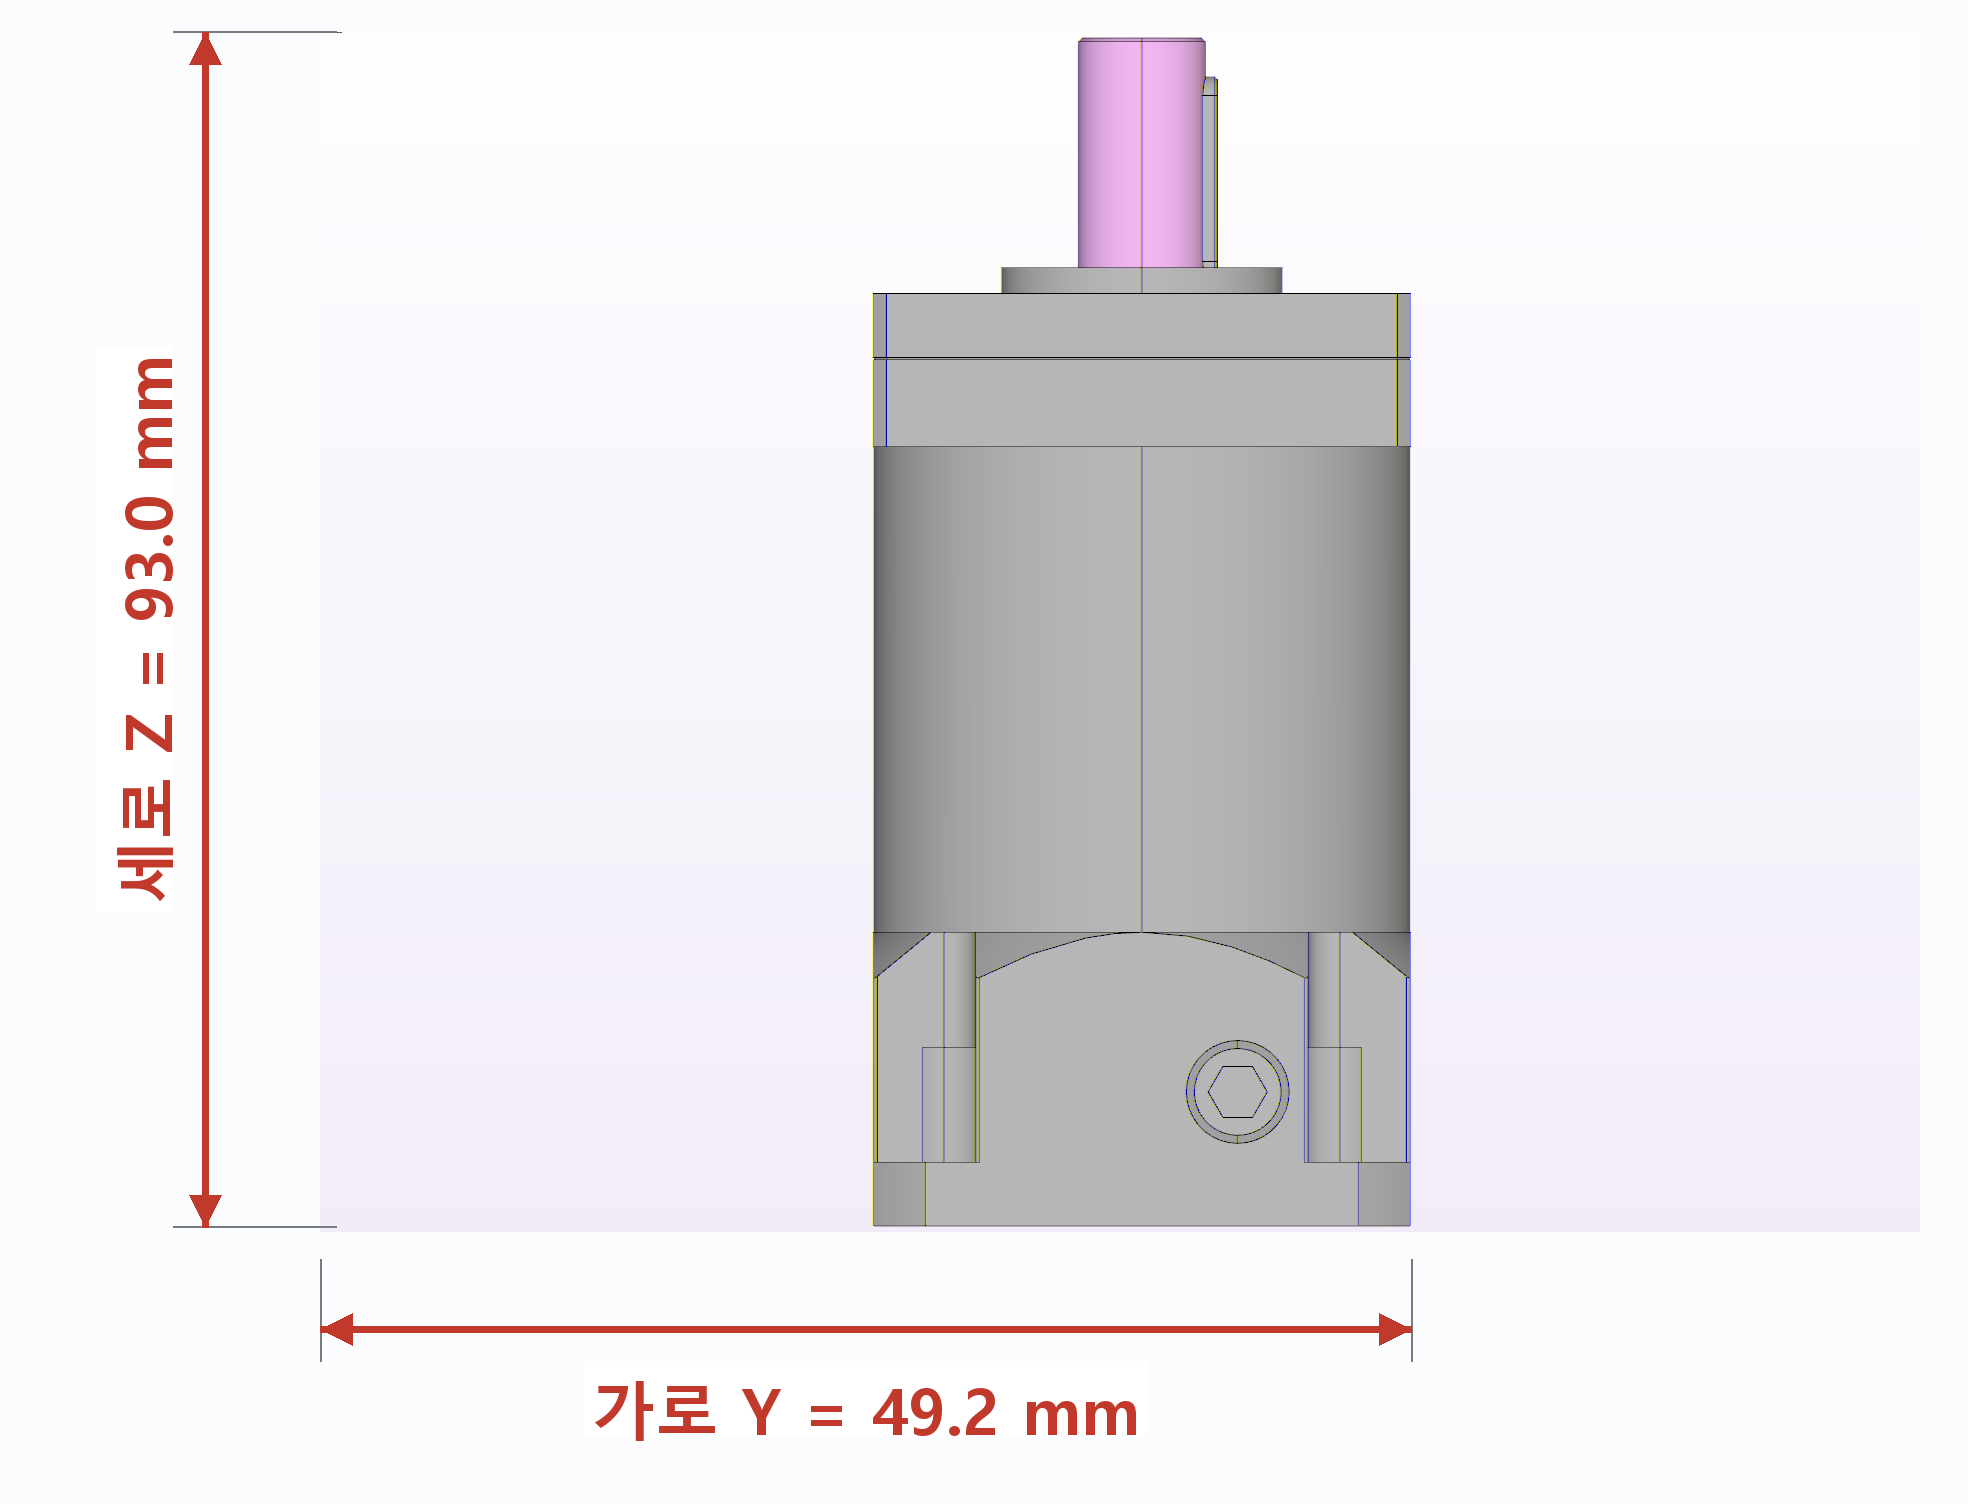
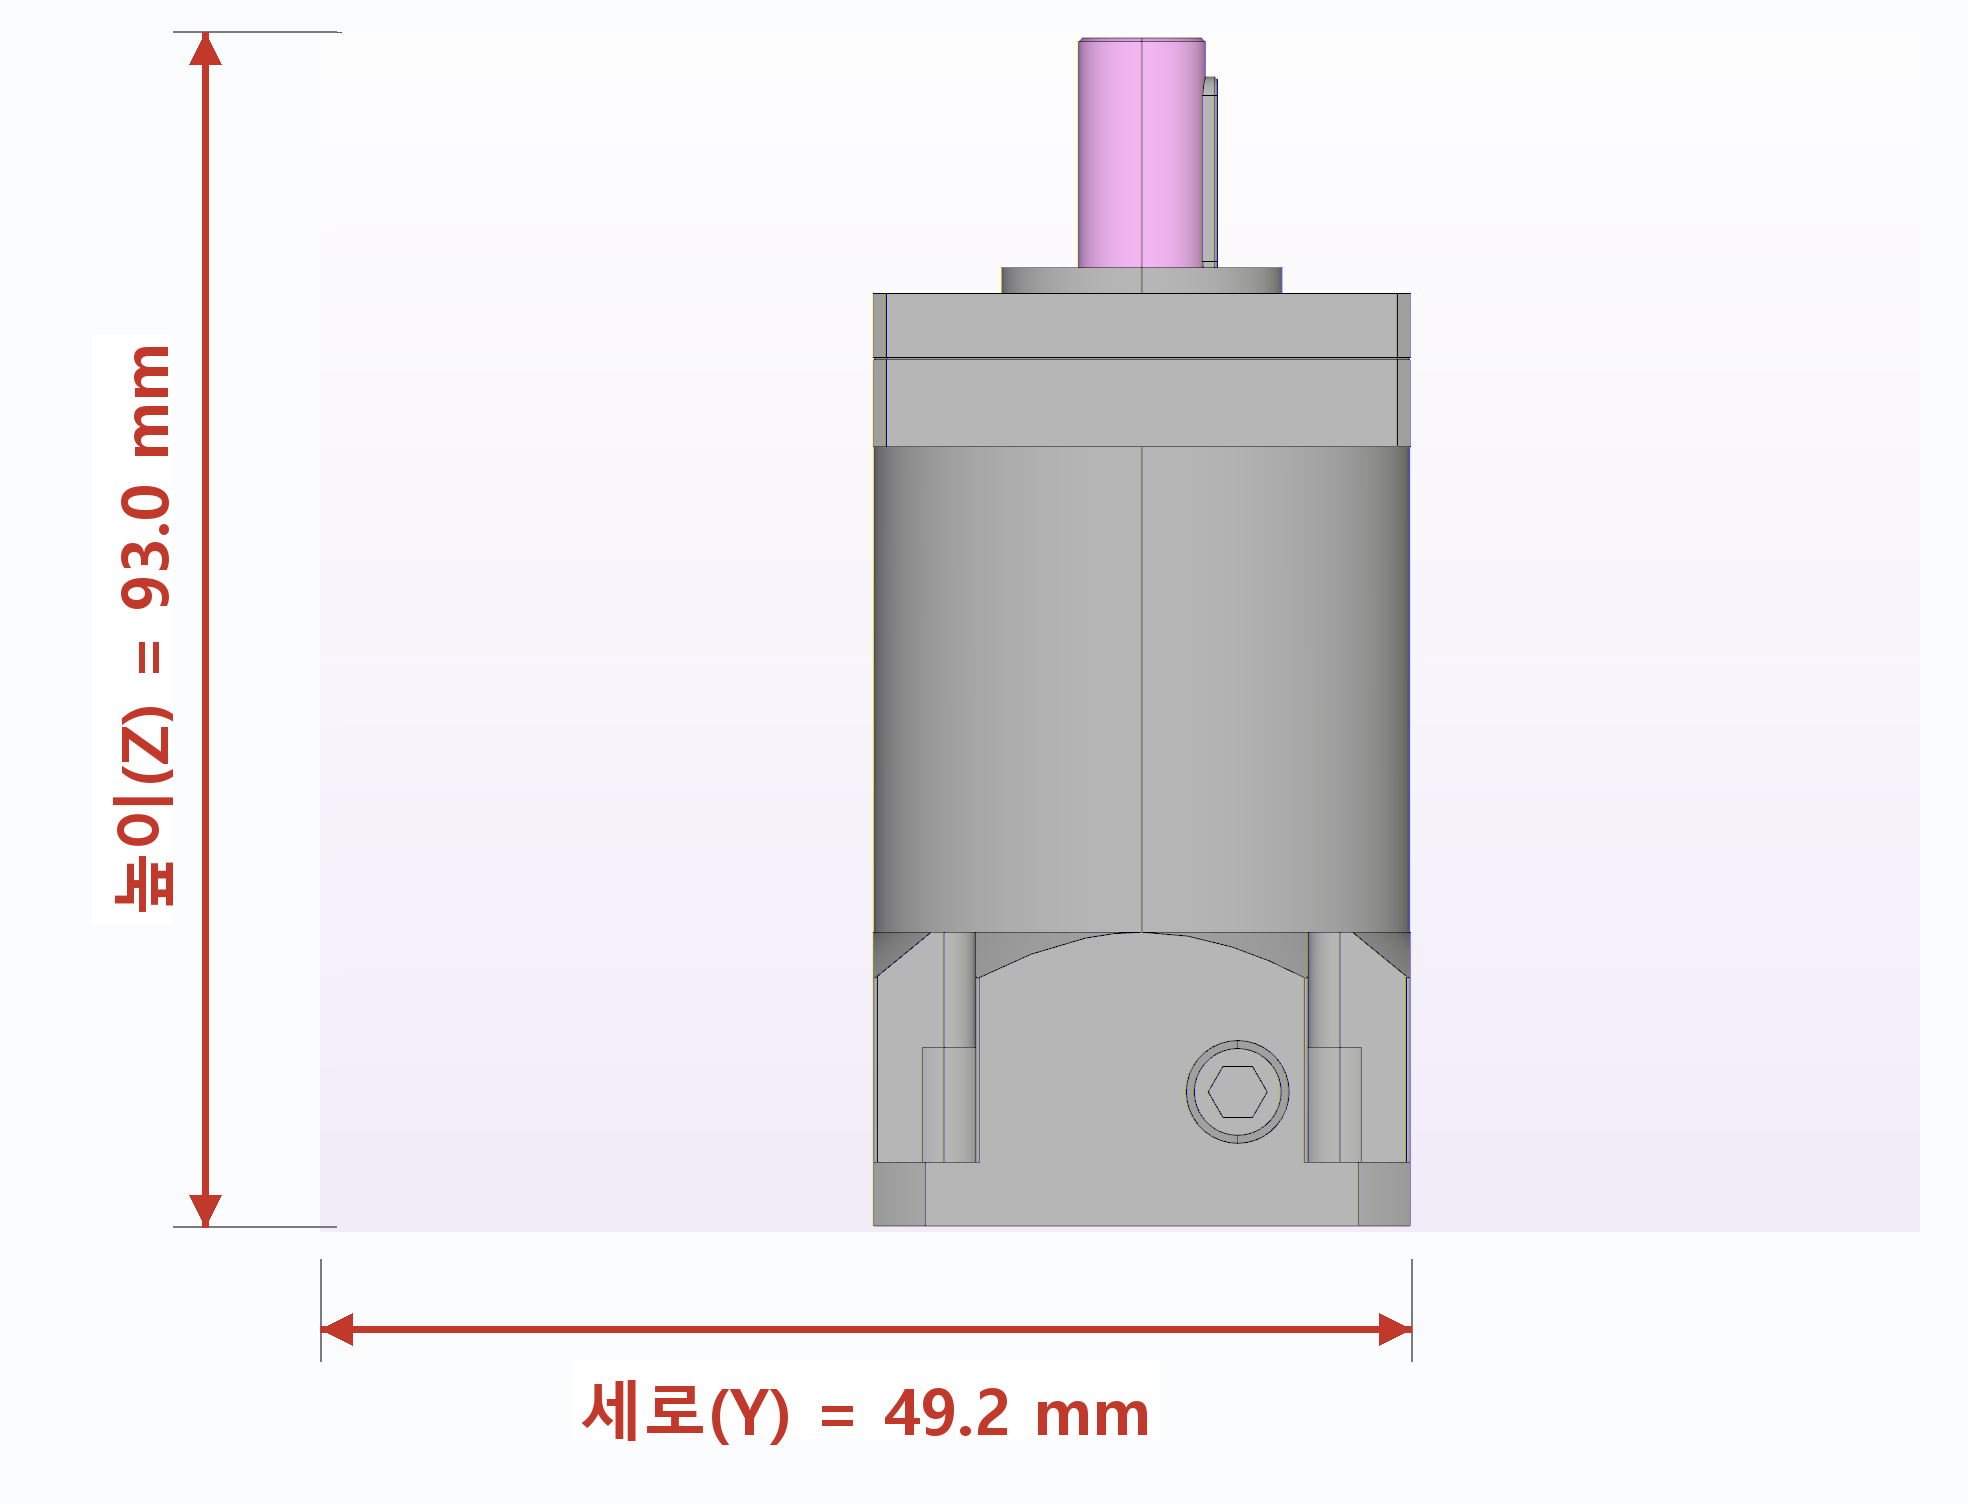
feature/step-report: refocus report on size + multi-angle photos
Per request, the default report is now visual/dimensional rather than
robot-dynamics oriented:
- Mass / inertia / URDF slides are OFF by default (add back with --with-mass).
  URDF is only computed/written when --with-mass is given.
- Dimensions stated as 가로(X) · 세로(Y) · 높이(Z); each orthographic view is
  annotated with its in-plane dims using these names (consistent everywhere).
- Standard 삼면도: front / TOP / side + iso. Top replaces the redundant back
  view and shows the footprint — fixes flat parts (a PCB only reads from above).
- New "여러 각도" gallery: 4 isometric corners (turntable). Title slide shows
  the part + size.

Slides: title / dimensions / dimensioned-drawing / multi-angle / diameters.
Planetary-gear example regenerated (7 renders); URDF file dropped from it.

Changed region(s): [[0.062, 0.2188, 0.093, 0.625], [0.4339, 0.9062, 0.5889, 0.9688], [0.279, 0.9062, 0.4029, 0.9688]]

diff --git a/scripts/argos_report.py b/scripts/argos_report.py
@@ -26,12 +26,23 @@ KO_FONT = "Malgun Gothic"  # Korean-capable font for PowerPoint rendering
 # in-plane dims = (horizontal axis, vertical axis) of the bounding box that the
 # orthographic view measures, used to draw dimension annotations on the image.
 # None means no dimension annotation (e.g. the isometric view).
+# Bounding-box axis -> Korean dimension name (가로/세로/높이).
+AXIS_KOR = {"x": "가로(X)", "y": "세로(Y)", "z": "높이(Z)"}
+
+# Views to render. (name, Z-up camera vector, label, in-plane dims (h,v) or None)
+# Four isometric corners give a "여러 각도" gallery (turntable-like); front/top/
+# side are the orthographic 삼면도 used for the dimensioned drawing. Top is key
+# for flat parts (a PCB only "reads" from above) and shows the X-Y footprint.
 CAMERA_VIEWS = [
-    ("iso",   "1, -1, 1", "등각투영 (ISO)", None),
-    ("front", "0, -1, 0", "앞면 (Front)",  ("x", "z")),
-    ("back",  "0, 1, 0",  "뒷면 (Back)",   ("x", "z")),
-    ("right", "1, 0, 0",  "옆면 (Side)",   ("y", "z")),
+    ("iso",   "1, -1, 1",  "등각 (앞·우·위)", None),
+    ("iso2",  "-1, -1, 1", "등각 (앞·좌·위)", None),
+    ("iso3",  "-1, 1, 1",  "등각 (뒤·좌·위)", None),
+    ("iso4",  "1, 1, 1",   "등각 (뒤·우·위)", None),
+    ("front", "0, -1, 0",  "정면도 (앞)",     ("x", "z")),
+    ("top",   "0, 0, 1",   "평면도 (위)",     ("x", "y")),
+    ("right", "1, 0, 0",   "측면도 (옆)",     ("y", "z")),
 ]
+ISO_VIEWS = ["iso", "iso2", "iso3", "iso4"]
 
 
 def find_cli(explicit):
@@ -209,7 +220,7 @@ def annotate_image(src, dst, hval, vval, hlabel, vlabel):
         d.line([(x0, y1 + gap), (x0, ydim + gap)], fill=GREY, width=ew)   # extension lines
         d.line([(x1, y1 + gap), (x1, ydim + gap)], fill=GREY, width=ew)
         _arrow_h(d, x0, x1, ydim, RED, a=ah, w=aw)
-        s = f"가로 {hlabel} = {fnum(hval, 1)} mm"
+        s = f"{hlabel} = {fnum(hval, 1)} mm"
         tw, th = text_w(s)
         tx = max(2, (x0 + x1) // 2 - tw // 2)
         d.rectangle([tx - 8, ydim + gap, tx + tw + 8, ydim + gap + th + 12], fill=(255, 255, 255))
@@ -221,7 +232,7 @@ def annotate_image(src, dst, hval, vval, hlabel, vlabel):
         d.line([(x0 + gap // 2, y0), (xdim - gap, y0)], fill=GREY, width=ew)
         d.line([(x0 + gap // 2, y1), (xdim - gap, y1)], fill=GREY, width=ew)
         _arrow_v(d, xdim, y0, y1, RED, a=ah, w=aw)
-        s = f"세로 {vlabel} = {fnum(vval, 1)} mm"
+        s = f"{vlabel} = {fnum(vval, 1)} mm"
         tw, th = text_w(s)
         lbl = Image.new("RGBA", (tw + 16, th + 16), (255, 255, 255, 235))
         ld = ImageDraw.Draw(lbl)
@@ -251,7 +262,7 @@ def annotate_views(images, bbox, out_dir):
         hkey, vkey = dims
         dst = os.path.join(out_dir, f"view_{name}_dim.png")
         if annotate_image(raw, dst, bbox.get(hkey), bbox.get(vkey),
-                          hkey.upper(), vkey.upper()):
+                          AXIS_KOR.get(hkey, hkey.upper()), AXIS_KOR.get(vkey, vkey.upper())):
             result[name] = dst
             print(f"[argos_report] annotated {name} -> {os.path.basename(dst)}")
     return result
@@ -292,6 +303,9 @@ def main():
     ap.add_argument("--reuse", action="store_true",
                     help="reuse existing digest.json + view_*.png in the output folder "
                          "(fast rebuild of the PPTX without re-measuring/re-rendering)")
+    ap.add_argument("--with-mass", action="store_true",
+                    help="also include the mass / inertia / URDF slides (humanoid link "
+                         "dynamics). Off by default: the report focuses on size + photos.")
     a = ap.parse_args()
 
     step = os.path.abspath(a.step)
@@ -311,12 +325,14 @@ def main():
     digest_path = os.path.join(out_dir, "digest.json")
     urdf_path = os.path.join(out_dir, "inertial.urdf.xml")
     dg = None
+    urdf_txt = ""
     if a.reuse and os.path.isfile(digest_path):
         try:
             dg_txt = open(digest_path, encoding="utf-8").read()
             dg = json.loads(dg_txt)
-            urdf_txt = open(urdf_path, encoding="utf-8").read() if os.path.isfile(urdf_path) else ""
-            print("[argos_report] reusing existing digest.json / inertial.urdf.xml")
+            if os.path.isfile(urdf_path):
+                urdf_txt = open(urdf_path, encoding="utf-8").read()
+            print("[argos_report] reusing existing digest.json")
         except Exception:
             dg = None
     if dg is None:
@@ -330,11 +346,13 @@ def main():
         if not dg.get("ok"):
             print("[argos_report] digest failed:", dg.get("error"))
             sys.exit(1)
-        urdf_txt, _ = run_cli(cli, ["props", step, "--density", str(a.density), "--urdf"])
         with open(digest_path, "w", encoding="utf-8") as f:
             f.write(dg_txt)
-        with open(urdf_path, "w", encoding="utf-8") as f:
-            f.write(urdf_txt)
+        # Mass / inertia / URDF are only computed when explicitly requested.
+        if a.with_mass:
+            urdf_txt, _ = run_cli(cli, ["props", step, "--density", str(a.density), "--urdf"])
+            with open(urdf_path, "w", encoding="utf-8") as f:
+                f.write(urdf_txt)
 
     images = {}
     if not a.no_images:
@@ -342,12 +360,12 @@ def main():
         images = annotate_views(images, dg.get("bboxSize"), out_dir)
 
     pptx_path = os.path.join(out_dir, stem + "_report.pptx")
-    build_pptx(dg, urdf_txt, step, a.density, a.material, pptx_path, images)
+    build_pptx(dg, urdf_txt, step, a.density, a.material, pptx_path, images, a.with_mass)
     print(f"[argos_report] PPTX  = {pptx_path}")
     print("[argos_report] done.")
 
 
-def build_pptx(dg, urdf, step, density, material, path, images=None):
+def build_pptx(dg, urdf, step, density, material, path, images=None, with_mass=False):
     from pptx import Presentation
     from pptx.util import Inches, Pt, Emu
     from pptx.dml.color import RGBColor
@@ -449,76 +467,64 @@ def build_pptx(dg, urdf, step, density, material, path, images=None):
     fname = os.path.basename(step)
     mat_label = material or ("강철(steel)" if abs(density - 7850.0) < 1 else f"{density:g} kg/m³")
 
-    # ---- Slide 1: title ----
+    gx, gy, gz = bb.get("x"), bb.get("y"), bb.get("z")
+
+    # ---- Slide 1: title (with the part image) ----
     s = prs.slides.add_slide(blank)
     bg = s.shapes.add_shape(1, 0, 0, SW, SH)
     bg.fill.solid(); bg.fill.fore_color.rgb = RGBColor(0x15, 0x31, 0x52); bg.line.fill.background()
-    textbox(s, Inches(0.8), Inches(2.4), Inches(11.7), Inches(1.2),
+    textbox(s, Inches(0.8), Inches(0.95), Inches(11.7), Inches(1.2),
             "Argos 측정 보고서", size=40, bold=True, color=WHITE)
-    textbox(s, Inches(0.85), Inches(3.7), Inches(11.7), Inches(2.0),
-            f"파일: {fname}\n재료/밀도: {mat_label}\n생성: Argos (argos-cli digest/props)",
+    sub = f"파일: {fname}"
+    if None not in (gx, gy, gz):
+        sub += f"\n크기: 가로 {fnum(gx,1)} × 세로 {fnum(gy,1)} × 높이 {fnum(gz,1)} mm"
+    textbox(s, Inches(0.85), Inches(2.15), Inches(11.7), Inches(1.2), sub,
             size=16, color=RGBColor(0xCF, 0xDD, 0xEE))
+    place_image(s, "iso", Inches(3.4), Inches(3.45), Inches(6.5), Inches(3.7))
 
-    # ---- Slide 2: overview / dimensions (+ iso render) ----
+    # ---- Slide 2: dimensions (가로/세로/높이) + part image ----
     s = prs.slides.add_slide(blank)
-    title_bar(s, "개요 · 주요 치수", fname)
+    title_bar(s, "주요 치수 — 가로 · 세로 · 높이", fname)
     rows = [["항목", "값"]]
-    if bb:
-        rows.append(["전체 치수 (L×W×H)",
-                     f"{fnum(bb.get('x'))} × {fnum(bb.get('y'))} × {fnum(bb.get('z'))} mm"])
+    if None not in (gx, gy, gz):
+        rows.append(["가로 (X)", f"{fnum(gx)} mm"])
+        rows.append(["세로 (Y)", f"{fnum(gy)} mm"])
+        rows.append(["높이 (Z)", f"{fnum(gz)} mm"])
     if vol_mm3 is not None:
-        rows.append(["부피", f"{fnum(vol_mm3)} mm³  ({fnum(float(vol_mm3)/1000.0)} cm³)"])
+        rows.append(["부피", f"{fnum(float(vol_mm3)/1000.0)} cm³"])
     if mass.get("area_mm2") is not None:
         rows.append(["표면적", f"{fnum(mass.get('area_mm2'))} mm²"])
     rows.append(["솔리드 / 면 / 모서리",
                  f"{counts.get('solids','-')} / {counts.get('faces','-')} / {counts.get('edges','-')}"])
-    has_iso = "iso" in images
-    table_w = Inches(6.7) if has_iso else Inches(11.9)
-    add_table(s, rows, Inches(0.55), Inches(1.45), table_w, [0.46, 0.54])
-    place_image(s, "iso", Inches(7.45), Inches(1.55), Inches(5.4), Inches(5.2),
+    add_table(s, rows, Inches(0.55), Inches(1.5), Inches(6.4), [0.5, 0.5], fontsize=15)
+    place_image(s, "iso", Inches(7.35), Inches(1.55), Inches(5.5), Inches(5.2),
                 caption="등각 투상도 (Argos 3D 뷰)")
 
-    # ---- Slide 2b: all views on one page (front / back / side / iso) with the
-    #      width & height dimensions drawn right on each orthographic image ----
-    if any(k in images for k in ("front", "back", "right", "iso")):
+    # ---- Slide 3: dimensioned drawing (정면·평면·측면 + 등각) ----
+    if any(k in images for k in ("front", "top", "right", "iso")):
         s = prs.slides.add_slide(blank)
-        title_bar(s, "전체 뷰 — 앞 · 뒤 · 옆 · 등각", f"{fname}  ·  치수(가로/세로)가 이미지에 표시됨")
+        title_bar(s, "치수 도면 — 정면 · 평면 · 측면 · 등각",
+                  f"{fname}  ·  가로/세로/높이가 이미지에 표시됨")
         grid = [("front", Inches(0.45), Inches(1.30)),
-                ("back",  Inches(6.95), Inches(1.30)),
+                ("top",   Inches(6.95), Inches(1.30)),
                 ("right", Inches(0.45), Inches(4.45)),
                 ("iso",   Inches(6.95), Inches(4.45))]
         for name, l, t in grid:
             place_image(s, name, l, t, Inches(5.9), Inches(2.55),
                         caption=captions.get(name, name))
 
-    # ---- Slide 3: mass / inertia ----
-    s = prs.slides.add_slide(blank)
-    title_bar(s, "질량 특성 (휴머노이드 링크 동역학)", f"{fname}  ·  {mat_label}")
-    if mass.get("ok"):
-        com = mass.get("com_mm") or {}
-        it = mass.get("inertia_com_kg_m2") or {}
-        pm = mass.get("principal_moments_kg_m2") or []
-        m_rows = [["항목", "값"],
-                  ["질량", f"{fnum(mass.get('mass_kg'), 4)} kg  ({fnum(float(mass.get('mass_kg',0))*1000.0)} g)"],
-                  ["무게중심 COM (mm)",
-                   f"({fnum(com.get('x'),3)}, {fnum(com.get('y'),3)}, {fnum(com.get('z'),3)})"],
-                  ["주관성모멘트 (kg·m²)",
-                   f"{fsci(pm[0]) if len(pm)>0 else '-'},  {fsci(pm[1]) if len(pm)>1 else '-'},  {fsci(pm[2]) if len(pm)>2 else '-'}"]]
-        add_table(s, m_rows, Inches(0.7), Inches(1.35), Inches(11.9), [0.34, 0.66])
-        textbox(s, Inches(0.7), Inches(3.55), Inches(6), Inches(0.4),
-                "관성텐서 (COM 기준, kg·m²)", size=14, bold=True, color=ACCENT)
-        I = [["", "x", "y", "z"],
-             ["x", fsci(it.get("ixx")), fsci(it.get("ixy")), fsci(it.get("ixz"))],
-             ["y", fsci(it.get("ixy")), fsci(it.get("iyy")), fsci(it.get("iyz"))],
-             ["z", fsci(it.get("ixz")), fsci(it.get("iyz")), fsci(it.get("izz"))]]
-        add_table(s, I, Inches(0.7), Inches(4.0), Inches(8.2), [0.16, 0.28, 0.28, 0.28], fontsize=12)
-    else:
-        textbox(s, Inches(0.7), Inches(1.6), Inches(11), Inches(1),
-                "질량 특성을 계산할 수 없습니다 (솔리드가 아님): " + str(mass.get("error", "")),
-                size=16, color=DIM)
+    # ---- Slide 4: multi-angle photo gallery (여러 각도) ----
+    iso_present = [v for v in ISO_VIEWS if v in images]
+    if len(iso_present) >= 2:
+        s = prs.slides.add_slide(blank)
+        title_bar(s, "여러 각도 — 등각 뷰", fname)
+        cells = [(Inches(0.45), Inches(1.30)), (Inches(6.95), Inches(1.30)),
+                 (Inches(0.45), Inches(4.45)), (Inches(6.95), Inches(4.45))]
+        for name, (l, t) in zip(iso_present[:4], cells):
+            place_image(s, name, l, t, Inches(5.9), Inches(2.55),
+                        caption=captions.get(name, name))
 
-    # ---- Slide 4: diameters (largest first; paginated into columns when many,
-    #      so a part with hundreds of cylinders doesn't overflow the slide) ----
+    # ---- Slide 5: diameters (largest first; paginated when many) ----
     s = prs.slides.add_slide(blank)
     PER_COL = 14
     MAX_COLS = 2
@@ -527,7 +533,7 @@ def build_pptx(dg, urdf, step, density, material, path, images=None):
         note = f"총 {len(diam)}개"
     else:
         note = f"총 {len(diam)}개 중 상위 {len(shown)}개 (전체는 digest.json)"
-    title_bar(s, "주요 지름 (원통면, 큰 것부터)", f"{fname}  ·  {note}" if diam else fname)
+    title_bar(s, "주요 지름 (원통/구멍, 큰 것부터)", f"{fname}  ·  {note}" if diam else fname)
     if diam:
         ncols = max(1, min(MAX_COLS, (len(shown) + PER_COL - 1) // PER_COL))
         col_w = Inches(3.0)
@@ -539,17 +545,44 @@ def build_pptx(dg, urdf, step, density, material, path, images=None):
                 rows.append([ci * PER_COL + k + 1, fnum(d, 3), fnum(float(d) / 2.0, 3)])
             add_table(s, rows, Inches(0.5) + ci * (col_w + gap), Inches(1.4), col_w,
                       [0.22, 0.42, 0.36], fontsize=11)
-        place_image(s, "iso", Inches(7.05), Inches(1.55), Inches(5.8), Inches(5.2),
-                    caption="원통면 위치 (등각 투상도)")
+        place_image(s, "top", Inches(7.05), Inches(1.55), Inches(5.8), Inches(5.2),
+                    caption="원통/구멍 위치 (평면도)")
     else:
         textbox(s, Inches(0.7), Inches(1.6), Inches(11), Inches(1),
                 "원통면이 감지되지 않았습니다.", size=16, color=DIM)
 
-    # ---- Slide 5: URDF ----
-    s = prs.slides.add_slide(blank)
-    title_bar(s, "URDF <inertial> (로봇 링크)", fname)
-    textbox(s, Inches(0.6), Inches(1.35), Inches(12.1), Inches(5.5), urdf.strip(),
-            size=14, mono=True, color=INK)
+    # ---- Optional: mass / inertia + URDF (humanoid link dynamics) ----
+    if with_mass:
+        s = prs.slides.add_slide(blank)
+        title_bar(s, "질량 특성 (휴머노이드 링크 동역학)", f"{fname}  ·  {mat_label}")
+        if mass.get("ok"):
+            com = mass.get("com_mm") or {}
+            it = mass.get("inertia_com_kg_m2") or {}
+            pm = mass.get("principal_moments_kg_m2") or []
+            m_rows = [["항목", "값"],
+                      ["질량", f"{fnum(mass.get('mass_kg'), 4)} kg  ({fnum(float(mass.get('mass_kg',0))*1000.0)} g)"],
+                      ["무게중심 COM (mm)",
+                       f"({fnum(com.get('x'),3)}, {fnum(com.get('y'),3)}, {fnum(com.get('z'),3)})"],
+                      ["주관성모멘트 (kg·m²)",
+                       f"{fsci(pm[0]) if len(pm)>0 else '-'},  {fsci(pm[1]) if len(pm)>1 else '-'},  {fsci(pm[2]) if len(pm)>2 else '-'}"]]
+            add_table(s, m_rows, Inches(0.7), Inches(1.35), Inches(11.9), [0.34, 0.66])
+            textbox(s, Inches(0.7), Inches(3.55), Inches(6), Inches(0.4),
+                    "관성텐서 (COM 기준, kg·m²)", size=14, bold=True, color=ACCENT)
+            I = [["", "x", "y", "z"],
+                 ["x", fsci(it.get("ixx")), fsci(it.get("ixy")), fsci(it.get("ixz"))],
+                 ["y", fsci(it.get("ixy")), fsci(it.get("iyy")), fsci(it.get("iyz"))],
+                 ["z", fsci(it.get("ixz")), fsci(it.get("iyz")), fsci(it.get("izz"))]]
+            add_table(s, I, Inches(0.7), Inches(4.0), Inches(8.2), [0.16, 0.28, 0.28, 0.28], fontsize=12)
+        else:
+            textbox(s, Inches(0.7), Inches(1.6), Inches(11), Inches(1),
+                    "질량 특성을 계산할 수 없습니다 (솔리드가 아님): " + str(mass.get("error", "")),
+                    size=16, color=DIM)
+
+        if urdf and urdf.strip():
+            s = prs.slides.add_slide(blank)
+            title_bar(s, "URDF <inertial> (로봇 링크)", fname)
+            textbox(s, Inches(0.6), Inches(1.35), Inches(12.1), Inches(5.5), urdf.strip(),
+                    size=14, mono=True, color=INK)
 
     prs.save(path)
 

diff --git a/examples/planetary_gear/README.md b/examples/planetary_gear/README.md
@@ -4,27 +4,35 @@ Argos의 **STEP 자동 측정 보고서** 기능 예시입니다. 실제 **2단 
 (JVL **HSHG17** — NEMA 17 스텝모터용)를 받아 `argos-cli` + `argos_report.py`로
 파워포인트 보고서를 자동 생성했습니다.
 
-> 휴머노이드 개발 관점: 보고서에는 **질량·무게중심·관성텐서(COM 기준)**와
-> 바로 붙여넣을 수 있는 **URDF `<inertial>`** 블록이 포함됩니다.
+> 보고서는 **사진(여러 각도) + 가로·세로·높이 치수** 중심입니다. 각 직교뷰
+> 이미지에는 치수 화살표(가로 X / 세로 Y / 높이 Z)가 그려집니다.
+> 질량·관성·URDF(휴머노이드 링크)는 `--with-mass` 옵션으로 추가할 수 있습니다.
 
 ## 측정 요약 (강철 7850 kg/m³ 가정)
 
 | 항목 | 값 |
 |---|---|
-| 전체 치수 (L×W×H) | 49.2 × 49.2 × 93.0 mm |
-| 부피 / 질량 | 103.5 cm³ / **0.812 kg** |
+| 가로 × 세로 × 높이 (X×Y×Z) | 49.2 × 49.2 × 93.0 mm |
+| 부피 / 질량 | 103.5 cm³ / 0.812 kg |
 | 표면적 | 20,554 mm² |
 | 솔리드 / 면 / 모서리 | 1 / 198 / 483 |
 | 주요 지름 | ⌀58, 54, 42, 28, 22, 18, 10, 8, 6.8, 6, 5, 3.2 mm |
 
+## 보고서 구성 (슬라이드 5장)
+
+1. 표지 (크기 요약 + 등각 이미지)
+2. 주요 치수 — 가로 · 세로 · 높이
+3. 치수 도면 — 정면 · 평면 · 측면 · 등각 (이미지에 치수 표시)
+4. 여러 각도 — 등각 4방향
+5. 주요 지름 (원통/구멍)
+
 ## 폴더 내용
 
-- `report/HSHG17_2stage_planetary_gear_report.pptx` — 보고서(슬라이드 6장, **3D 이미지 포함**)
-- `report/view_iso.png` · `view_front.png` · `view_top.png` · `view_right.png` —
-  Argos가 **헤드리스(offscreen)로 렌더링**한 3D 뷰. 어디를 측정했는지 한눈에 보이며,
+- `report/HSHG17_2stage_planetary_gear_report.pptx` — 보고서
+- `report/view_iso*.png` · `view_front.png` · `view_top.png` · `view_right.png` —
+  Argos가 **헤드리스(offscreen)로 렌더링**한 3D 뷰. `*_dim.png`는 치수 주석 버전.
   창이 뜨지 않아 작업 중에도 생성됩니다.
 - `report/digest.json` — 측정 원본 데이터(JSON)
-- `report/inertial.urdf.xml` — URDF `<inertial>` 스니펫
 - 원본 STEP는 **저작권상 저장소에 포함하지 않습니다**(`.gitignore`). 아래로 받으세요.
 
 ## 재생성 방법
@@ -37,11 +45,13 @@ Argos의 **STEP 자동 측정 보고서** 기능 예시입니다. 실제 **2단 
 #    https://www.jvl.dk/files/Downloads-1/CAD%20drawings/step/HSHG17NxxxMHN17008M_2stage.STEP
 #    -> examples/planetary_gear/HSHG17_2stage_planetary_gear.step 로 저장
 
-# 2) 보고서 생성 (이미지 없이 빠르게: --no-images)
+# 2) 보고서 생성
 py -3.12 scripts/argos_report.py `
     examples/planetary_gear/HSHG17_2stage_planetary_gear.step `
     --material "강철(steel)" --out examples/planetary_gear/report
 
+# 이미지 없이 빠르게: --no-images
+# 질량/관성/URDF 슬라이드 추가: --with-mass
 # 알루미늄으로 다시: --density 2700 --material "알루미늄"
 ```
 